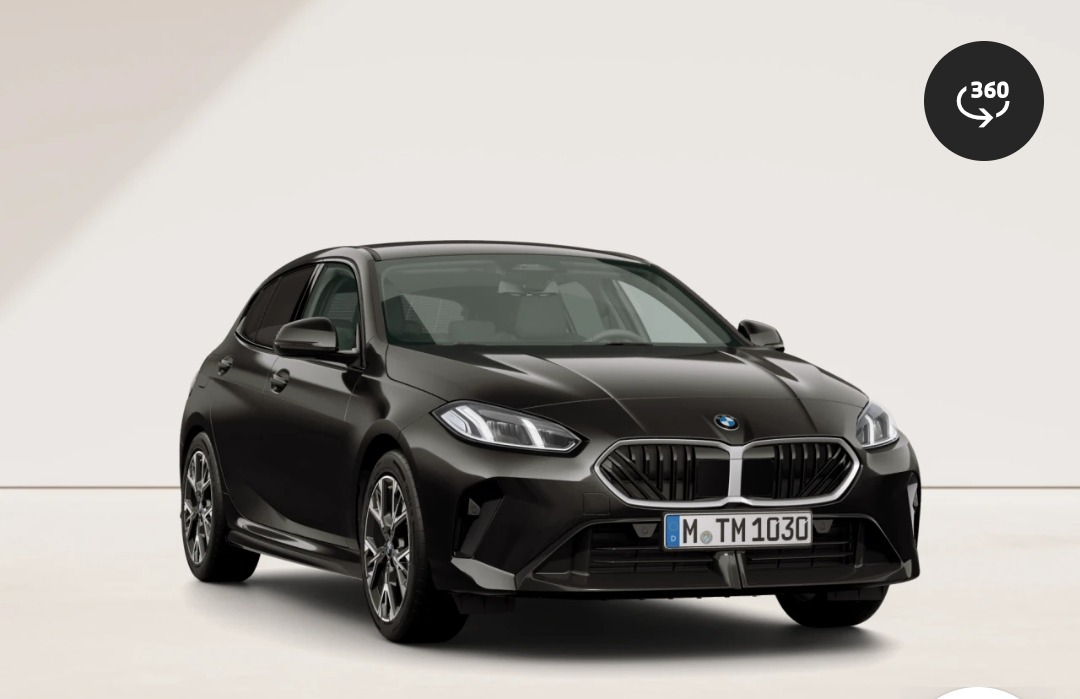
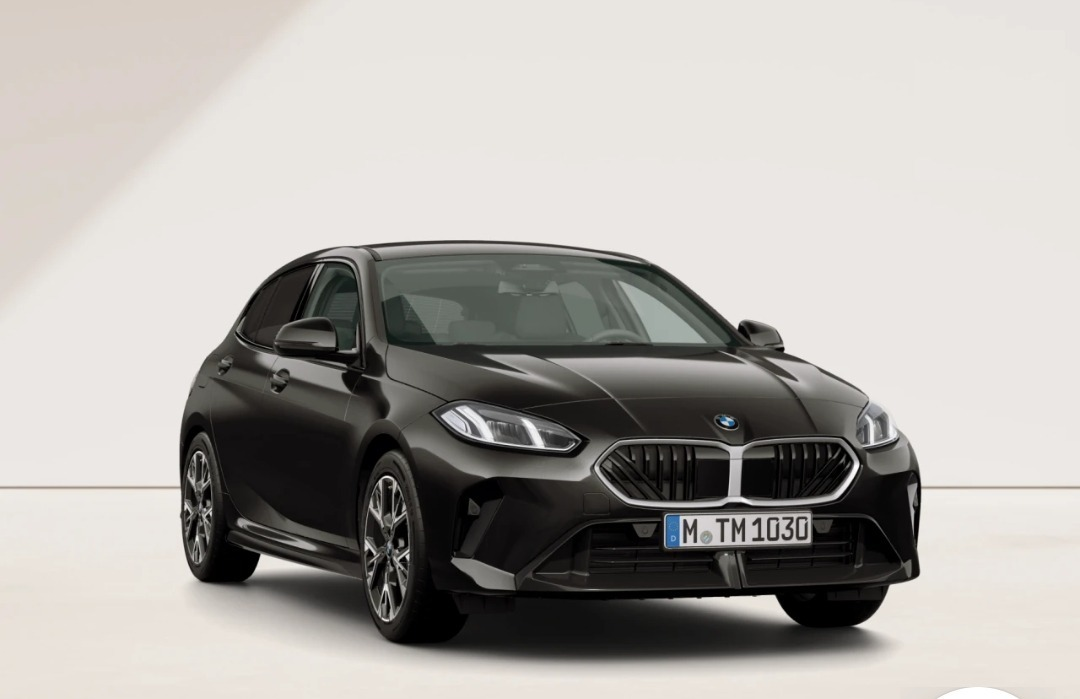
Confirm derivatives (120/220) and remove configurator UI badge from photos
Replace all "CONFIRM derivative" placeholders with the confirmed model
names: BMW 120 M Sport (1 Series) and BMW 220 Gran Coupé M Sport
(2 Series), applied consistently across rep-card titles, swatch alt
text, hero alt text, and the interest-modal/Formspree submission text.

Remove the leftover "360" view badge from the top-right corner of all
7 colour photos by cloning adjacent clean background over it — the
badge was a UI artifact from the BMW configurator screenshots, not
part of the product photo itself.

Claude-Session: https://claude.ai/code/session_018LsX7vJzgVQ2xzeF9aRBmH

Changed region(s): [[0.8556, 0.0601, 0.9778, 0.2403]]

diff --git a/sorted-for-a-year.html b/sorted-for-a-year.html
@@ -185,7 +185,7 @@
 
   <!-- HERO — placeholder image until Dan supplies real video/photos -->
   <section class="offer-page-hero" aria-label="Sorted For A Year cinematic">
-    <img src="assets/colours/1series-alpine-white.jpg" alt="BMW 1 Series M Sport in Alpine White" class="offer-hero-img"/>
+    <img src="assets/colours/1series-alpine-white.jpg" alt="BMW 120 M Sport in Alpine White" class="offer-hero-img"/>
     <!-- TODO: replace <img> above with a <video class="offer-hero-img" autoplay muted loop playsinline> once Dan supplies footage -->
     <div class="offer-hero-overlay"></div>
     <div class="offer-hero-content">
@@ -228,14 +228,14 @@
         <div class="colour-picker">
           <p class="colour-picker-label">Choose your colour</p>
           <div class="swatch-row">
-            <button class="swatch active" style="background:#f2f2f2;" data-img="assets/colours/1series-alpine-white.jpg" data-alt="BMW 1 Series M Sport in Alpine White" data-name="Alpine White" onclick="selectColour(this,'1series')" aria-label="Alpine White"></button>
-            <button class="swatch" style="background:#181818;" data-img="assets/colours/1series-black-sapphire.jpg" data-alt="BMW 1 Series M Sport in Black Sapphire" data-name="Black Sapphire" onclick="selectColour(this,'1series')" aria-label="Black Sapphire"></button>
-            <button class="swatch" style="background:#909598;" data-img="assets/colours/1series-skyscraper-grey.jpg" data-alt="BMW 1 Series M Sport in Skyscraper Grey" data-name="Skyscraper Grey" onclick="selectColour(this,'1series')" aria-label="Skyscraper Grey"></button>
-            <button class="swatch" style="background:#566069;" data-img="assets/colours/1series-skyscraper-grey.jpg" data-alt="BMW 1 Series M Sport in Brooklyn Grey — placeholder photo, real photo not yet supplied" data-name="Brooklyn Grey" data-placeholder="true" onclick="selectColour(this,'1series')" aria-label="Brooklyn Grey (photo not yet supplied)"></button>
-            <button class="swatch" style="background:#283e70;" data-img="assets/colours/1series-portimao-blue.jpg" data-alt="BMW 1 Series M Sport in Portimao Blue" data-name="Portimao Blue" onclick="selectColour(this,'1series')" aria-label="Portimao Blue"></button>
-            <button class="swatch" style="background:#2b1933;" data-img="assets/colours/1series-thundernight.jpg" data-alt="BMW 1 Series M Sport in Thundernight" data-name="Thundernight" onclick="selectColour(this,'1series')" aria-label="Thundernight"></button>
-            <button class="swatch" style="background:#384941;" data-img="assets/colours/1series-cape-york-green.jpg" data-alt="BMW 1 Series M Sport in Cape York Green" data-name="Cape York Green" onclick="selectColour(this,'1series')" aria-label="Cape York Green"></button>
-            <button class="swatch" style="background:#5d1016;" data-img="assets/colours/1series-fire-red.jpg" data-alt="BMW 1 Series M Sport in Fire Red" data-name="Fire Red" onclick="selectColour(this,'1series')" aria-label="Fire Red"></button>
+            <button class="swatch active" style="background:#f2f2f2;" data-img="assets/colours/1series-alpine-white.jpg" data-alt="BMW 120 M Sport in Alpine White" data-name="Alpine White" onclick="selectColour(this,'1series')" aria-label="Alpine White"></button>
+            <button class="swatch" style="background:#181818;" data-img="assets/colours/1series-black-sapphire.jpg" data-alt="BMW 120 M Sport in Black Sapphire" data-name="Black Sapphire" onclick="selectColour(this,'1series')" aria-label="Black Sapphire"></button>
+            <button class="swatch" style="background:#909598;" data-img="assets/colours/1series-skyscraper-grey.jpg" data-alt="BMW 120 M Sport in Skyscraper Grey" data-name="Skyscraper Grey" onclick="selectColour(this,'1series')" aria-label="Skyscraper Grey"></button>
+            <button class="swatch" style="background:#566069;" data-img="assets/colours/1series-skyscraper-grey.jpg" data-alt="BMW 120 M Sport in Brooklyn Grey — placeholder photo, real photo not yet supplied" data-name="Brooklyn Grey" data-placeholder="true" onclick="selectColour(this,'1series')" aria-label="Brooklyn Grey (photo not yet supplied)"></button>
+            <button class="swatch" style="background:#283e70;" data-img="assets/colours/1series-portimao-blue.jpg" data-alt="BMW 120 M Sport in Portimao Blue" data-name="Portimao Blue" onclick="selectColour(this,'1series')" aria-label="Portimao Blue"></button>
+            <button class="swatch" style="background:#2b1933;" data-img="assets/colours/1series-thundernight.jpg" data-alt="BMW 120 M Sport in Thundernight" data-name="Thundernight" onclick="selectColour(this,'1series')" aria-label="Thundernight"></button>
+            <button class="swatch" style="background:#384941;" data-img="assets/colours/1series-cape-york-green.jpg" data-alt="BMW 120 M Sport in Cape York Green" data-name="Cape York Green" onclick="selectColour(this,'1series')" aria-label="Cape York Green"></button>
+            <button class="swatch" style="background:#5d1016;" data-img="assets/colours/1series-fire-red.jpg" data-alt="BMW 120 M Sport in Fire Red" data-name="Fire Red" onclick="selectColour(this,'1series')" aria-label="Fire Red"></button>
           </div>
           <p style="font-size:.78rem;color:#5f6b7c;margin:10px 0 0;">Selected: <span class="swatch-name" id="colourName-1series" style="color:#141a22;">Alpine White</span> <span id="placeholderNote-1series"></span></p>
         </div>
@@ -244,10 +244,10 @@
         <div class="rep-section">
           <p class="rep-kicker">Representative offer &mdash; BMW 1 Series</p>
           <div class="rep-card">
-            <img src="assets/colours/1series-alpine-white.jpg" alt="BMW 1 Series M Sport in Alpine White" class="rep-card-img" id="repImg-1series"/>
+            <img src="assets/colours/1series-alpine-white.jpg" alt="BMW 120 M Sport in Alpine White" class="rep-card-img" id="repImg-1series"/>
             <div class="rep-card-body">
               <div class="rep-offer-label">BMW PCH &middot; Representative example</div>
-              <div class="rep-offer-title">BMW 1 Series M Sport <span class="confirm-flag">CONFIRM derivative, e.g. 118/120</span></div>
+              <div class="rep-offer-title">BMW 120 M Sport</div>
               <div class="rep-offer-note">Free 1st year&rsquo;s BMW Insurance&#42; and 3 years&rsquo; servicing&#42; included. Road fund licence included for the duration of the lease.</div>
               <div class="rep-figures">
                 <div class="rep-fig-row"><span class="rep-fig-label">Monthly rental</span><span class="rep-fig-value big">&pound;389.00</span></div>
@@ -268,14 +268,14 @@
         <div class="colour-picker">
           <p class="colour-picker-label">Choose your colour <span style="text-transform:none;font-weight:400;">(2 Series photos below marked <span class="confirm-flag">CONFIRM</span> are 1 Series placeholders — same colour, real Gran Coup&eacute; shots to follow)</span></p>
           <div class="swatch-row">
-            <button class="swatch active" style="background:#f2f2f2;" data-img="assets/colours/2series-reference-white.jpg" data-alt="BMW 2 Series Gran Coupé M Sport in Alpine White" data-name="Alpine White" onclick="selectColour(this,'2series')" aria-label="Alpine White"></button>
-            <button class="swatch" style="background:#181818;" data-img="assets/colours/1series-black-sapphire.jpg" data-alt="BMW 2 Series Gran Coupé M Sport in Black Sapphire — placeholder photo (1 Series shown)" data-name="Black Sapphire" data-placeholder="true" onclick="selectColour(this,'2series')" aria-label="Black Sapphire"></button>
-            <button class="swatch" style="background:#909598;" data-img="assets/colours/1series-skyscraper-grey.jpg" data-alt="BMW 2 Series Gran Coupé M Sport in Skyscraper Grey — placeholder photo (1 Series shown)" data-name="Skyscraper Grey" data-placeholder="true" onclick="selectColour(this,'2series')" aria-label="Skyscraper Grey"></button>
-            <button class="swatch" style="background:#566069;" data-img="assets/colours/1series-skyscraper-grey.jpg" data-alt="BMW 2 Series Gran Coupé M Sport in Brooklyn Grey — placeholder photo, real photo not yet supplied" data-name="Brooklyn Grey" data-placeholder="true" onclick="selectColour(this,'2series')" aria-label="Brooklyn Grey (photo not yet supplied)"></button>
-            <button class="swatch" style="background:#283e70;" data-img="assets/colours/1series-portimao-blue.jpg" data-alt="BMW 2 Series Gran Coupé M Sport in Portimao Blue — placeholder photo (1 Series shown)" data-name="Portimao Blue" data-placeholder="true" onclick="selectColour(this,'2series')" aria-label="Portimao Blue"></button>
-            <button class="swatch" style="background:#2b1933;" data-img="assets/colours/1series-thundernight.jpg" data-alt="BMW 2 Series Gran Coupé M Sport in Thundernight — placeholder photo (1 Series shown)" data-name="Thundernight" data-placeholder="true" onclick="selectColour(this,'2series')" aria-label="Thundernight"></button>
-            <button class="swatch" style="background:#384941;" data-img="assets/colours/1series-cape-york-green.jpg" data-alt="BMW 2 Series Gran Coupé M Sport in Cape York Green — placeholder photo (1 Series shown)" data-name="Cape York Green" data-placeholder="true" onclick="selectColour(this,'2series')" aria-label="Cape York Green"></button>
-            <button class="swatch" style="background:#5d1016;" data-img="assets/colours/1series-fire-red.jpg" data-alt="BMW 2 Series Gran Coupé M Sport in Fire Red — placeholder photo (1 Series shown)" data-name="Fire Red" data-placeholder="true" onclick="selectColour(this,'2series')" aria-label="Fire Red"></button>
+            <button class="swatch active" style="background:#f2f2f2;" data-img="assets/colours/2series-reference-white.jpg" data-alt="BMW 220 Gran Coupé M Sport in Alpine White" data-name="Alpine White" onclick="selectColour(this,'2series')" aria-label="Alpine White"></button>
+            <button class="swatch" style="background:#181818;" data-img="assets/colours/1series-black-sapphire.jpg" data-alt="BMW 220 Gran Coupé M Sport in Black Sapphire — placeholder photo (1 Series shown)" data-name="Black Sapphire" data-placeholder="true" onclick="selectColour(this,'2series')" aria-label="Black Sapphire"></button>
+            <button class="swatch" style="background:#909598;" data-img="assets/colours/1series-skyscraper-grey.jpg" data-alt="BMW 220 Gran Coupé M Sport in Skyscraper Grey — placeholder photo (1 Series shown)" data-name="Skyscraper Grey" data-placeholder="true" onclick="selectColour(this,'2series')" aria-label="Skyscraper Grey"></button>
+            <button class="swatch" style="background:#566069;" data-img="assets/colours/1series-skyscraper-grey.jpg" data-alt="BMW 220 Gran Coupé M Sport in Brooklyn Grey — placeholder photo, real photo not yet supplied" data-name="Brooklyn Grey" data-placeholder="true" onclick="selectColour(this,'2series')" aria-label="Brooklyn Grey (photo not yet supplied)"></button>
+            <button class="swatch" style="background:#283e70;" data-img="assets/colours/1series-portimao-blue.jpg" data-alt="BMW 220 Gran Coupé M Sport in Portimao Blue — placeholder photo (1 Series shown)" data-name="Portimao Blue" data-placeholder="true" onclick="selectColour(this,'2series')" aria-label="Portimao Blue"></button>
+            <button class="swatch" style="background:#2b1933;" data-img="assets/colours/1series-thundernight.jpg" data-alt="BMW 220 Gran Coupé M Sport in Thundernight — placeholder photo (1 Series shown)" data-name="Thundernight" data-placeholder="true" onclick="selectColour(this,'2series')" aria-label="Thundernight"></button>
+            <button class="swatch" style="background:#384941;" data-img="assets/colours/1series-cape-york-green.jpg" data-alt="BMW 220 Gran Coupé M Sport in Cape York Green — placeholder photo (1 Series shown)" data-name="Cape York Green" data-placeholder="true" onclick="selectColour(this,'2series')" aria-label="Cape York Green"></button>
+            <button class="swatch" style="background:#5d1016;" data-img="assets/colours/1series-fire-red.jpg" data-alt="BMW 220 Gran Coupé M Sport in Fire Red — placeholder photo (1 Series shown)" data-name="Fire Red" data-placeholder="true" onclick="selectColour(this,'2series')" aria-label="Fire Red"></button>
           </div>
           <p style="font-size:.78rem;color:#5f6b7c;margin:10px 0 0;">Selected: <span class="swatch-name" id="colourName-2series" style="color:#141a22;">Alpine White</span> <span id="placeholderNote-2series"></span></p>
         </div>
@@ -284,10 +284,10 @@
         <div class="rep-section">
           <p class="rep-kicker">Representative offer &mdash; BMW 2 Series</p>
           <div class="rep-card">
-            <img src="assets/colours/2series-reference-white.jpg" alt="BMW 2 Series Gran Coupé M Sport in Alpine White" class="rep-card-img" id="repImg-2series"/>
+            <img src="assets/colours/2series-reference-white.jpg" alt="BMW 220 Gran Coupé M Sport in Alpine White" class="rep-card-img" id="repImg-2series"/>
             <div class="rep-card-body">
               <div class="rep-offer-label">BMW PCH &middot; Representative example</div>
-              <div class="rep-offer-title">BMW 2 Series Gran Coup&eacute; M Sport <span class="confirm-flag">CONFIRM derivative</span></div>
+              <div class="rep-offer-title">BMW 220 Gran Coup&eacute; M Sport</div>
               <div class="rep-offer-note">Free 1st year&rsquo;s BMW Insurance&#42; and 3 years&rsquo; servicing&#42; included. Road fund licence included for the duration of the lease.</div>
               <div class="rep-figures">
                 <div class="rep-fig-row"><span class="rep-fig-label">Monthly rental</span><span class="rep-fig-value big">&pound;399.00</span></div>
@@ -433,7 +433,7 @@ function selectColour(el,model){
 
 function openOfferModal(model){
   currentModel=model;
-  var label=model==='1series'?'BMW 1 Series M Sport':'BMW 2 Series Gran Coupé M Sport';
+  var label=model==='1series'?'BMW 120 M Sport':'BMW 220 Gran Coupé M Sport';
   document.getElementById('omTitle').textContent='Register interest — '+label;
   document.getElementById('omForm').style.display='block';
   document.getElementById('omSuccess').style.display='none';
@@ -451,7 +451,7 @@ function submitInterest(){
   var e=document.getElementById('omEmail').value.trim();
   if(!n||!p||!e){alert('Please fill in all three fields so Dan can get back to you.');return;}
   if(!/^[^\s@]+@[^\s@]+\.[^\s@]+$/.test(e)){alert('Please check the email address.');return;}
-  var model=currentModel==='1series'?'BMW 1 Series M Sport':'BMW 2 Series Gran Coupé M Sport';
+  var model=currentModel==='1series'?'BMW 120 M Sport':'BMW 220 Gran Coupé M Sport';
   var monthly=currentModel==='1series'?'£389.00':'£399.00';
   var colour=selectedColour[currentModel];
   fetch('https://formspree.io/f/xqewleog',{
